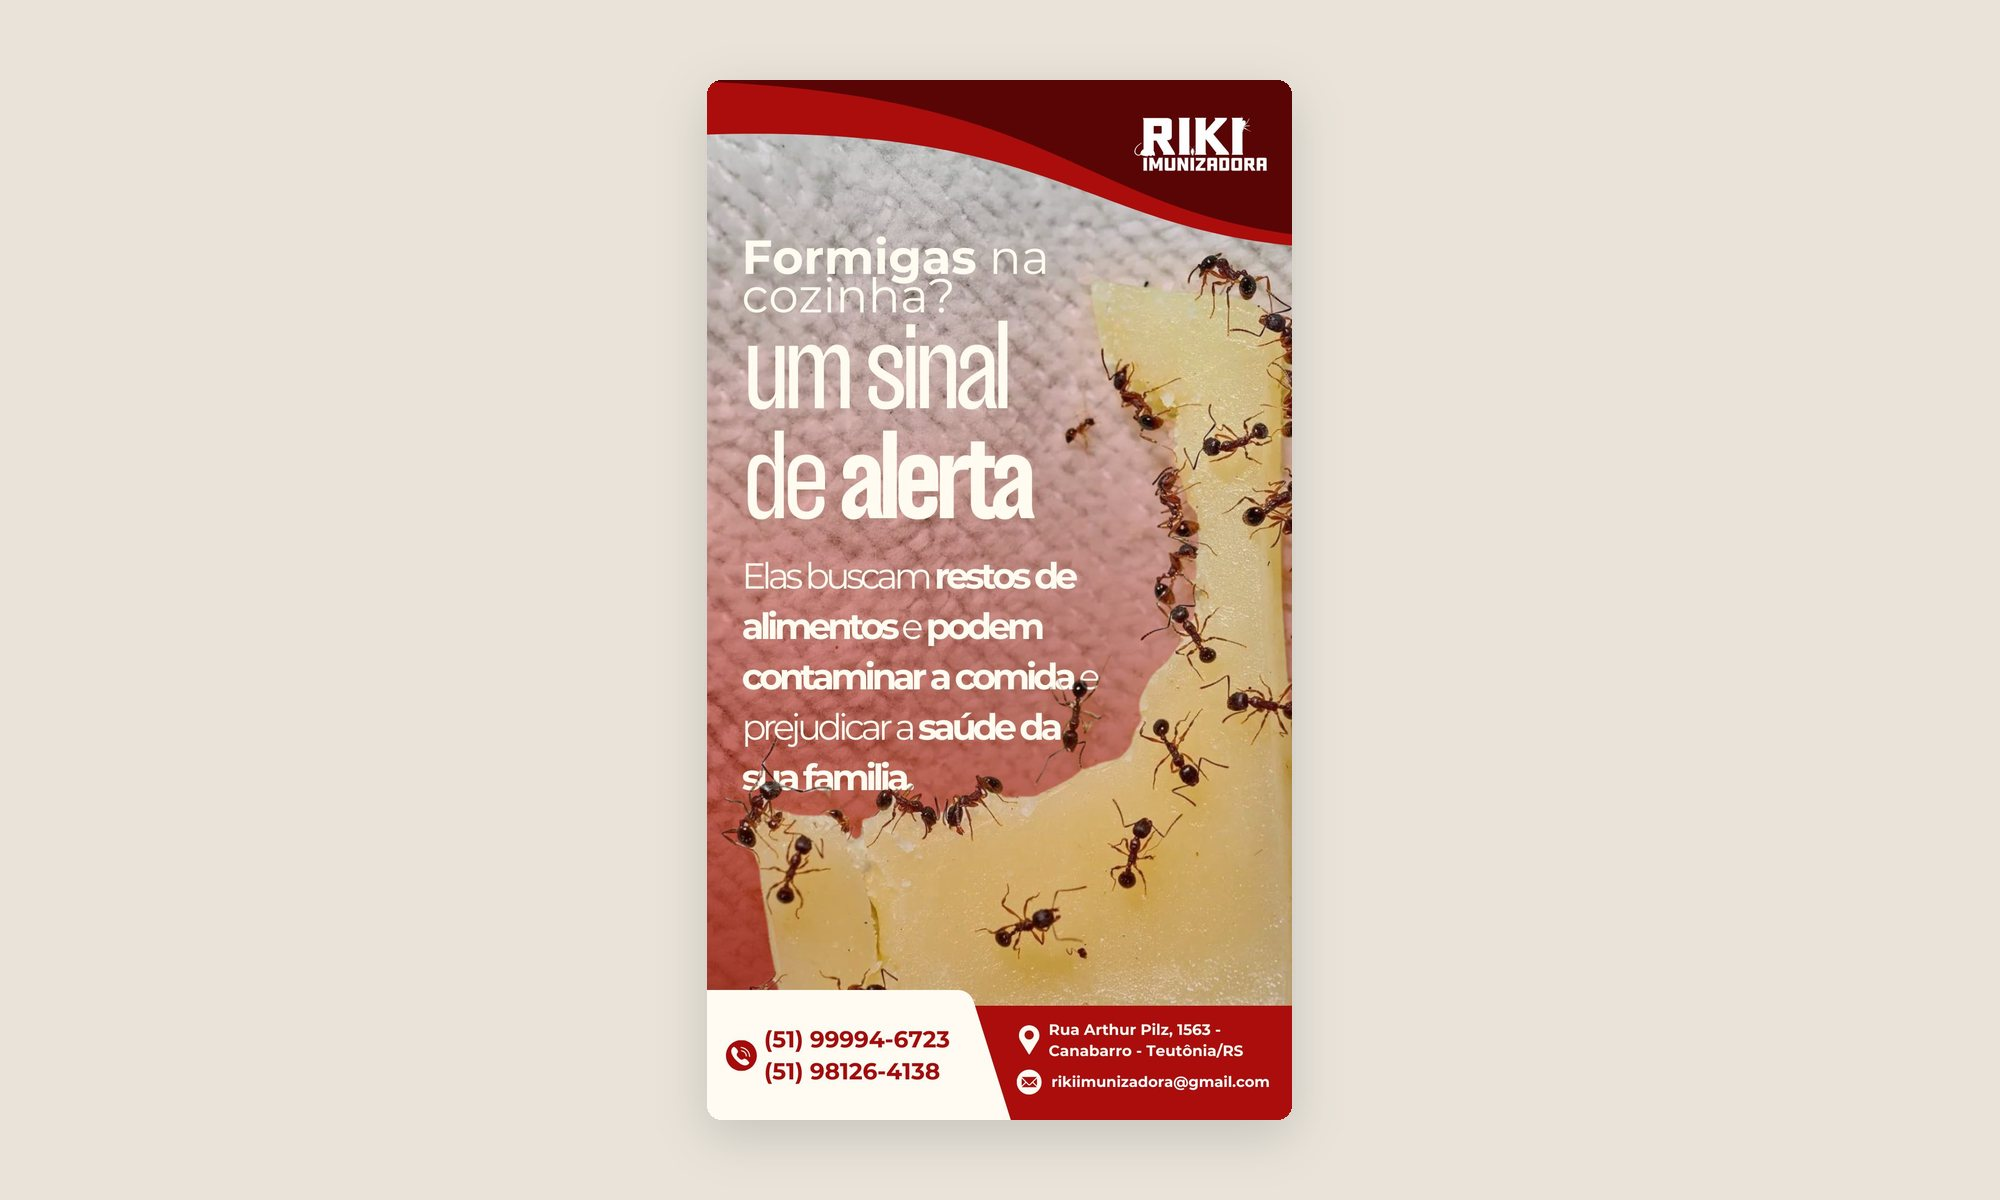
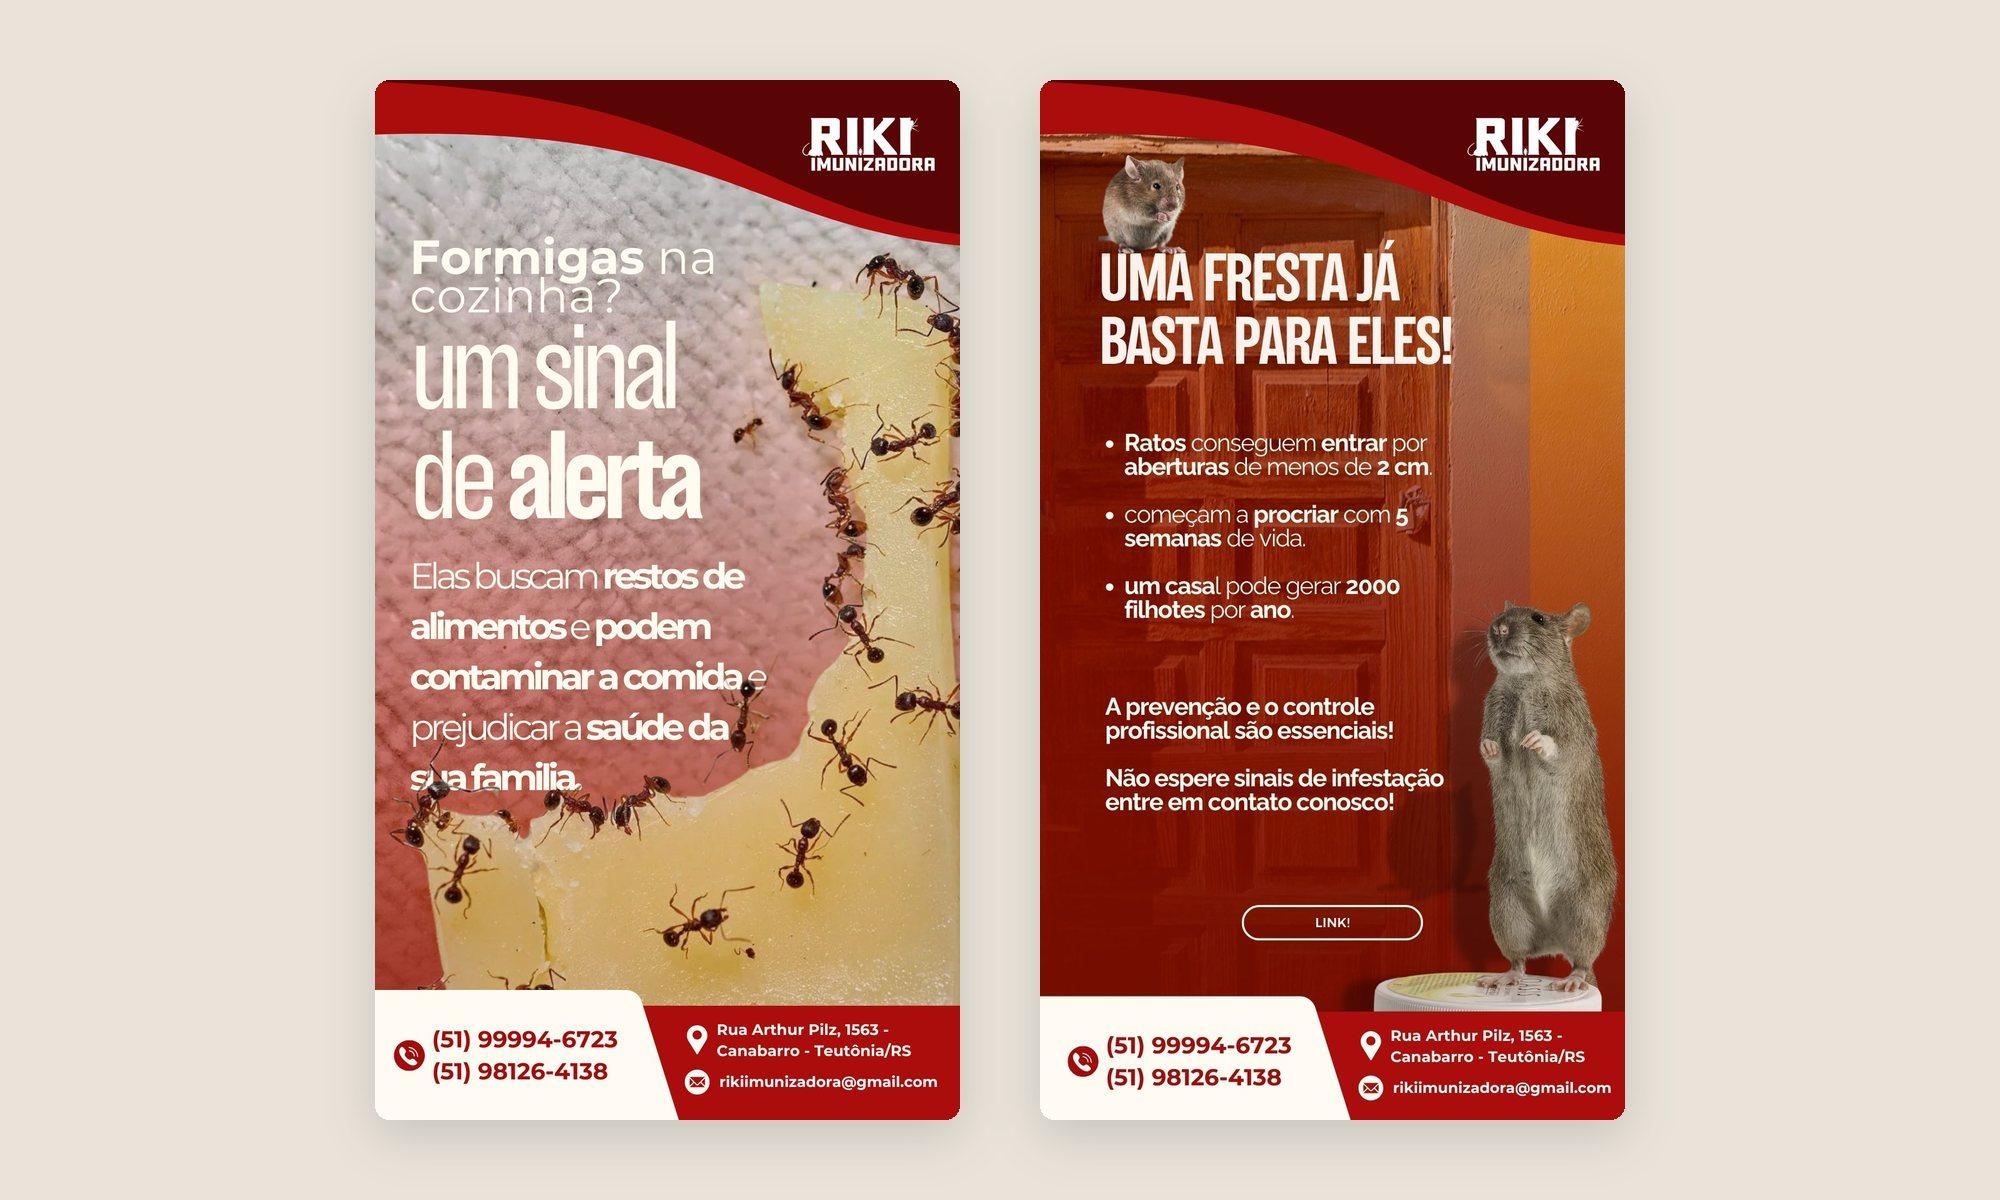
Riki: novo story sobre ratos
Claude-Session: https://claude.ai/code/session_014v3DxsYWfTwvseLvm47oJu

diff --git a/content/projects.js b/content/projects.js
@@ -1994,8 +1994,8 @@ window.PROJECTS = [
         "type": "image",
         "src": "img/riki/story-vitrine.jpg",
         "ratio": "2000/1200",
-        "alt": "Story Formigas na cozinha? Um sinal de alerta, com formigas sobre um pedaço de queijo",
-        "cap": "A mesma moldura adaptada ao formato stories."
+        "alt": "Dois stories lado a lado: Formigas na cozinha? Um sinal de alerta, e Uma fresta já basta para eles!, sobre ratos",
+        "cap": "Stories com a mesma moldura, adaptada ao formato vertical."
       }
     ]
   },

diff --git a/content/projects.en.js b/content/projects.en.js
@@ -1971,8 +1971,8 @@ window.PROJECTS_EN = [
         "type": "image",
         "src": "img/riki/story-vitrine.jpg",
         "ratio": "2000/1200",
-        "alt": "Story Ants in the kitchen? A warning sign, with ants on a piece of cheese",
-        "cap": "The same frame adapted to the stories format."
+        "alt": "Two stories side by side: Ants in the kitchen? A warning sign, and Even a small gap is enough for them!, about rats",
+        "cap": "Stories with the same frame, adapted to the vertical format."
       }
     ]
   },
